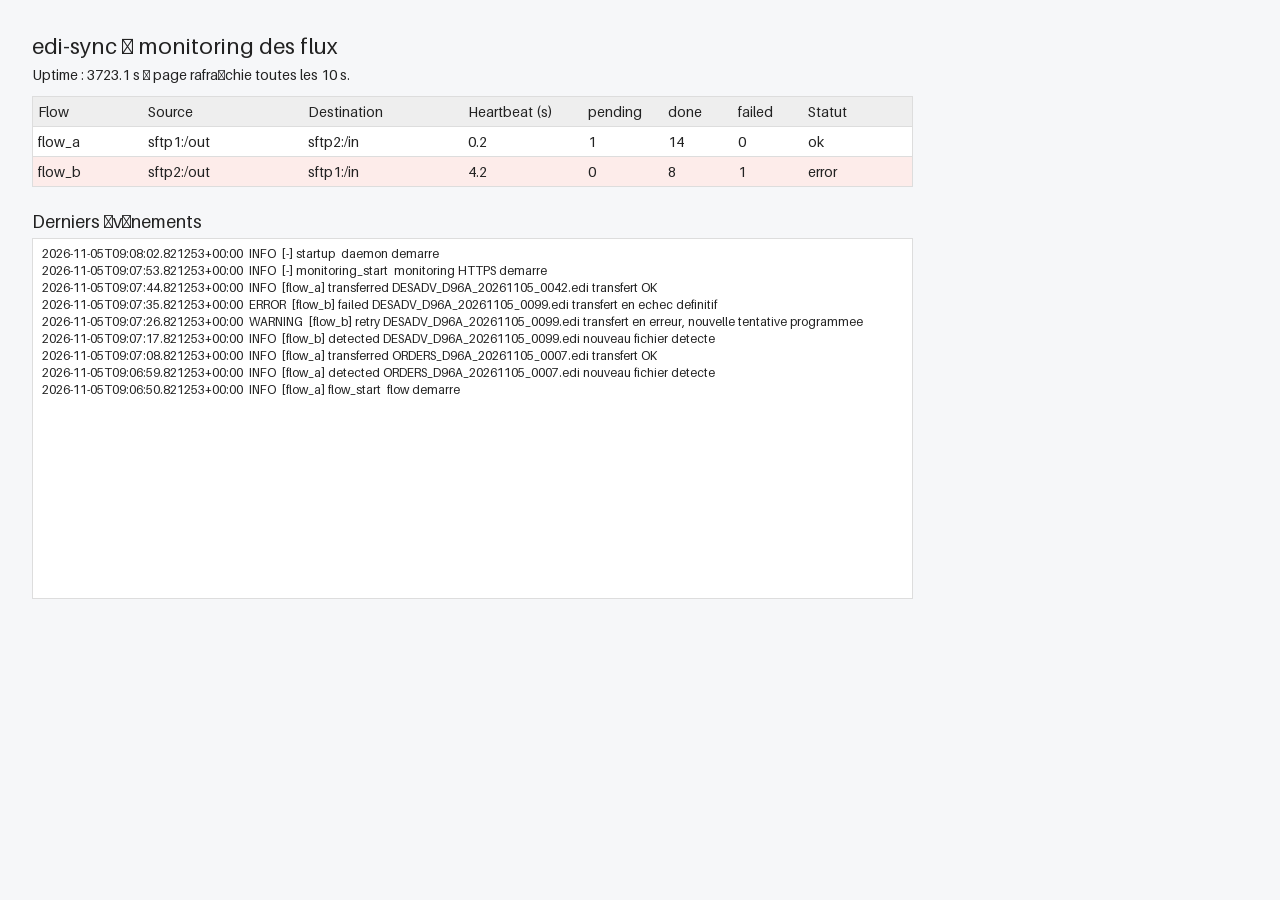
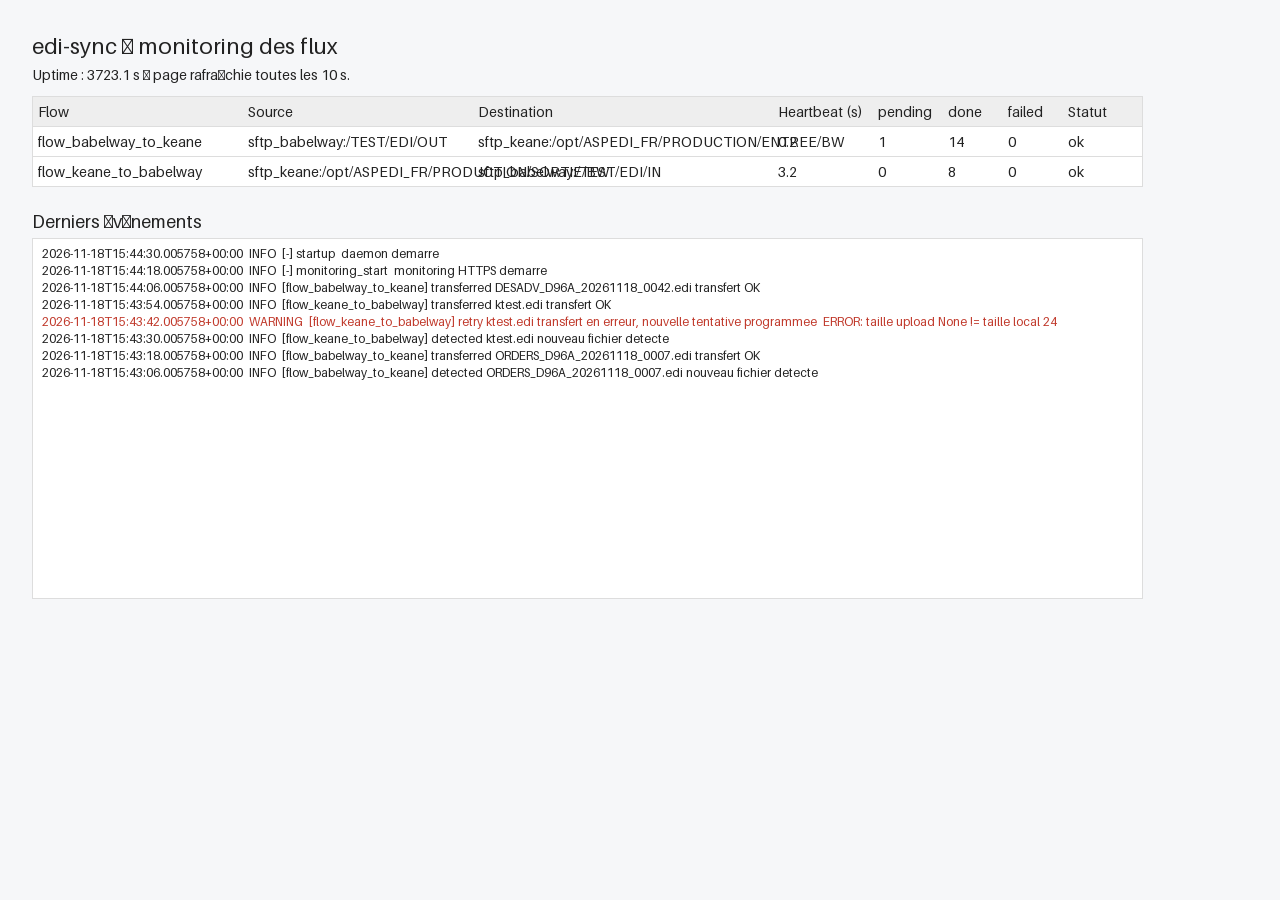
Doc a jour : vrais noms de flows (sftp_babelway/sftp_keane, flow_babelway_to_keane/flow_keane_to_babelway), scan racine seule, local_archive_dir + suppression source, log_file, reset failed au redemarrage, mode --user [PREFIX], capture monitoring regeneree

diff --git a/SRV_EDI_TRANSFERT_SFTP/README.md b/SRV_EDI_TRANSFERT_SFTP/README.md
@@ -1,38 +1,40 @@
 # SRV_EDI_TRANSFERT_SFTP
 
-Daemon Linux, lancé en tant que **service systemd**, qui transfère en **temps réel** des fichiers EDI d'un serveur SFTP à un autre, de manière **bidirectionnelle** :
+Daemon Linux, lancé en tant que **service systemd**, qui transfère en **temps réel** des fichiers EDI entre deux serveurs SFTP, de manière **bidirectionnelle** (exemple avec babelway/keane) :
 
-- `OUT` du SFTP 1 → `IN` du SFTP 2
-- `OUT` du SFTP 2 → `IN` du SFTP 1
+- `flow_babelway_to_keane` : `/TEST/EDI/OUT` (eu1.babelway.net) → `/opt/ASPEDI_FR/PRODUCTION/ENTREE/BW` (keane.cemoi.fr)
+- `flow_keane_to_babelway` : `/opt/ASPEDI_FR/PRODUCTION/SORTIE/BW` (keane.cemoi.fr) → `/TEST/EDI/IN` (eu1.babelway.net)
 
 ## Architecture
 
 ```
-┌─────────┐     flow A : OUT → IN      ┌─────────┐
-│ SFTP 1  │ ─────────────────────────► │ SFTP 2  │
-│  /out   │   sftp1/out ──► sftp2/in   │  /in    │
-│  /in    │ ◄───────────────────────── │  /out   │
-│ /archive│     flow B : OUT → IN      │ /archive│
-└─────────┘   sftp2/out ──► sftp1/in   └─────────┘
-            (daemon edi-sync au milieu)
+┌──────────────────┐  flow_babelway_to_keane   ┌──────────────────┐
+│  sftp_babelway   │ ─────────────────────────► │    sftp_keane    │
+│  /TEST/EDI/OUT   │  OUT ──► ENTREE/BW        │  .../ENTREE/BW   │
+│  /TEST/EDI/IN    │ ◄───────────────────────── │  .../SORTIE/BW   │
+└──────────────────┘  flow_keane_to_babelway   └──────────────────┘
+        (daemon edi-sync sur le serveur EDI, /opt/EDI/edi-sync)
 ```
 
-Le daemon tourne sur un serveur Linux intermédiaire et gère **deux flux indépendants**, chacun dans son propre thread :
+Le daemon tourne sur un serveur Linux intermédiaire et gère **un thread par flux** (connexions SFTP dédiées par flux) :
 
 | Composant | Rôle |
 |---|---|
-| Scanner (par flux) | Scanne le répertoire `OUT` distant toutes les N secondes, détecte les fichiers nouveaux et *stables* |
-| Queue persistante (SQLite) | Stocke chaque transfert avec son état (`pending`, `downloading`, `uploading`, `done`, `failed`), ses tentatives et ses timestamps |
-| Worker (par flux) | Télécharge vers un répertoire local `staging/`, vérifie la taille, upload vers `IN/.<nom>.tmp` puis **rename atomique** |
-| Superviseur | Reconnexion SFTP automatique, backoff exponentiel, reprise des transferts interrompus au démarrage |
-| Service systemd | `edi-sync.service` : `Restart=always`, utilisateur dédié, sandboxing |
+| Scanner (par flux) | Scanne la **racine** du répertoire source distant toutes les N secondes (pas de récursivité dans les sous-dossiers), détecte les fichiers nouveaux et *stables* |
+| Queue persistante (SQLite) | Stocke chaque transfert avec son état (`pending`, `done`, `failed`), ses tentatives et ses timestamps ; au démarrage, les `failed` sont remis en `pending` |
+| Worker (par flux) | Télécharge vers `staging/`, vérifie la taille source↔local, upload vers `IN/.<nom>.tmp` puis **rename atomique**, archive localement, supprime la source |
+| Purge | Supprime les archives locales de plus de `archive_retention_days` jours (toutes les heures) |
+| Monitoring | Mini serveur HTTPS (voir ci-dessous) |
+| Superviseur | Reconnexion SFTP automatique, keepalive 30 s, backoff exponentiel, arrêt propre sur SIGTERM/SIGINT |
+| Service systemd | `edi-sync.service` (system) ou `edi-sync-user.service` (`--user`) : `Restart=always` |
 
 ## Règles de transfert
 
-- **Anti-boucle** : seuls les répertoires `OUT` sont scannés ; un fichier livré dans `IN` n'est jamais relu.
+- **Anti-boucle** : seuls les répertoires sources (`source_dir`) sont scannés ; un fichier livré côté destination n'est jamais relu.
+- **Scan racine seule** : les sous-dossiers de `source_dir` (ex. `KA/`, `REV/`, `SOL/`, `COPIES/`) **ne sont pas parcourus**.
 - **Fichier stable** : taille inchangée entre 2 scans consécutifs ; les suffixes `.tmp`/`.part` et fichiers cachés sont ignorés.
 - **Anti-doublon** : clé unique `(flow, nom, taille, mtime)` dans la queue SQLite.
-- **Transfert atomique** côté destination : upload en `.<nom>.tmp` puis rename, jamais de fichier partiel visible.
+- **Transfert atomique** côté destination : upload en `.<nom>.tmp` puis rename, jamais de fichier partiel visible. Après le rename, si le fichier n'est plus visible au `stat` (la plateforme peut le déplacer immédiatement), c'est un warning, pas une erreur ; erreur seulement si la taille constatée diffère.
 - **Après succès** : le fichier est archivé **localement** dans `local_archive_dir/<flow>/` (ex. `/opt/EDI/ARCHIVE/flow_babelway_to_keane/`), puis **supprimé du SFTP source**, état `done`.
 - **Purge** : les archives locales sont supprimées automatiquement après N jours (`archive_retention_days`, 7 par défaut).
 - **Conflit de nom** côté `IN` : même nom + même taille = déjà livré (ignoré) ; taille différente = upload sous `<nom>.dup-<timestamp>`.
@@ -49,13 +51,15 @@ SRV_EDI_TRANSFERT_SFTP/
 ├── config/
 │   └── config.ini.example     # exemple de configuration
 ├── systemd/
-│   └── edi-sync.service       # unité systemd
+│   ├── edi-sync.service       # unité systemd (mode system, root)
+│   └── edi-sync-user.service  # unité systemd --user (mode sans root, template __APP_DIR__)
 ├── install/
-│   └── install.sh             # playbook d'installation sur le serveur cible
+│   └── install.sh             # playbook d'installation (modes system / --user [PREFIX])
 ├── tests/
 │   └── test_edi_sync.py       # tests unitaires (logique pure + serveur HTTP de monitoring, loopback)
 └── docs/
-    └── architecture.md        # décisions d'architecture détaillées
+    ├── architecture.md        # décisions d'architecture détaillées
+    └── monitoring-ui.png      # capture de la page de monitoring (données de démo)
 ```
 
 ## Tests
@@ -120,16 +124,16 @@ sudo systemctl enable --now edi-sync
 
 Crée l'utilisateur système `edisync`, déploie le code dans `/opt/edi-sync/`, la config dans `/etc/edi-sync/` (600, owner edisync) + `keys/` (700), l'état dans `/var/lib/edi-sync/` et l'unité systemd système.
 
-**Mode user (sans aucun droit root)** — le daemon tourne sous ton compte, tout dans `~/edi-sync` :
+**Mode user (sans aucun droit root)** — le daemon tourne sous ton compte. Préfixe par défaut `~/edi-sync`, personnalisable (ex. `/opt/EDI/edi-sync`) :
 
 ```bash
 git clone https://github.com/rcanovasCemoi/DEV_EDI.git ~/DEV_EDI
-bash ~/DEV_EDI/SRV_EDI_TRANSFERT_SFTP/install/install.sh --user
-# éditer ~/edi-sync/config.ini : key_file pointent directement vers ~/.ssh/id_rsa_* (pas de copie)
-~/edi-sync/venv/bin/python ~/edi-sync/edi_sync.py --config ~/edi-sync/config.ini --check
+bash ~/DEV_EDI/SRV_EDI_TRANSFERT_SFTP/install/install.sh --user /opt/EDI/edi-sync
+# éditer /opt/EDI/edi-sync/config.ini : key_file pointent directement vers ~/.ssh/id_rsa_* (pas de copie)
+/opt/EDI/edi-sync/venv/bin/python /opt/EDI/edi-sync/edi_sync.py --config /opt/EDI/edi-sync/config.ini --check
 systemctl --user enable --now edi-sync
 systemctl --user status edi-sync
-journalctl --user -u edi-sync -f
+journalctl --user -u edi-sync -f    # ou: tail -f /opt/EDI/edi-sync/log/daemon.log si log_file renseigné
 ```
 
 > Pour que le service user démarre aussi sans session ouverte, demander à l'admin root une seule fois : `loginctl enable-linger $USER` (sinon le service démarre à ta première connexion).
@@ -141,8 +145,9 @@ systemctl status edi-sync
 journalctl -u edi-sync -f
 ```
 
-- Heartbeat par flow : `/var/lib/edi-sync/heartbeat_flow_babelway_to_keane`, `heartbeat_flow_keane_to_babelway` (nommés d'après les sections `[flow_*]`)
-- Métriques `pending/done/failed` par flow dans la base SQLite
+- Heartbeat par flow : `<state_dir>/heartbeat_flow_babelway_to_keane`, `heartbeat_flow_keane_to_babelway` (nommés d'après les sections `[flow_*]`)
+- Métriques `pending/done/failed` par flow dans la base SQLite (`<state_dir>/queue.db`)
+- Logs JSON sur stdout (journald) ; option `[general] log_file = /chemin/daemon.log` pour aussi écrire dans un fichier (utile en mode user sans accès au journal). Les erreurs incluent un champ `traceback`
 - Alerte si heartbeat absent ou si des transferts sont en `failed`
 
 ## Monitoring (mini serveur HTTPS embarqué)
@@ -150,8 +155,8 @@ journalctl -u edi-sync -f
 Le daemon embarque un serveur HTTPS dans un thread dédié (même process, état partagé avec la queue) :
 
 - **Accès** : bind `127.0.0.1:8443` par défaut — ne jamais binder `0.0.0.0`. Accès distant via tunnel SSH : `ssh -L 8443:127.0.0.1:8443 utilisateur@serveur-edi`, puis ouvrir `https://localhost:8443/`
-- `GET /` : page HTML de suivi des flux (état `ok`/`stale`/`error`, heartbeat, compteurs `pending/done/failed`, 30 derniers événements, auto-refresh 10 s)
-- `GET /api/status` : mêmes données en JSON
+- `GET /` : page HTML de suivi des flux (état `ok`/`stale`/`error`, heartbeat, compteurs `pending/done/failed`, 30 derniers événements avec leur champ `error`, auto-refresh 10 s)
+- `GET /api/status` : mêmes données en JSON (événements avec `error`)
 - `GET /health` : sonde `200 ok`
 - Certificat **auto-signé** généré au premier démarrage dans `/var/lib/edi-sync/certs/` (ou cert/key fournis via `tls_cert` / `tls_key` dans `[monitoring]`)
 - **Basic Auth optionnelle** : `auth_user` + `auth_password_sha256` (sha256 du mot de passe, ex. `echo -n 'motdepasse' | sha256sum`)

diff --git a/SRV_EDI_TRANSFERT_SFTP/docs/architecture.md b/SRV_EDI_TRANSFERT_SFTP/docs/architecture.md
@@ -5,13 +5,12 @@
 Daemon Python unique (`src/edi_sync.py`), déployé comme service systemd `edi-sync`, qui fait la navette **bidirectionnelle** de fichiers EDI entre deux serveurs SFTP :
 
 ```
-┌─────────┐     flow_babelway_to_keane  ┌─────────┐
-│ SFTP 1  │ ─────────────────────────► │ SFTP 2  │
-│  /out   │   sftp1/out ──► sftp2/in   │  /in    │
-│  /in    │ ◄───────────────────────── │  /out   │
-│ /archive│     flow_keane_to_babelway  │ /archive│
-└─────────┘   sftp2/out ──► sftp1/in   └─────────┘
-            (daemon edi-sync au milieu)
+┌──────────────────┐  flow_babelway_to_keane   ┌──────────────────┐
+│  sftp_babelway   │ ─────────────────────────► │    sftp_keane    │
+│  /TEST/EDI/OUT   │  OUT ──► ENTREE/BW        │  .../ENTREE/BW   │
+│  /TEST/EDI/IN    │ ◄───────────────────────── │  .../SORTIE/BW   │
+└──────────────────┘  flow_keane_to_babelway   └──────────────────┘
+        (daemon edi-sync sur le serveur EDI)
 ```
 
 ## Threads du process
@@ -32,13 +31,14 @@ Daemon Python unique (`src/edi_sync.py`), déployé comme service systemd `edi-s
 
 ## Règles de transfert
 
-- **Anti-boucle** : seuls les répertoires `OUT` sont scannés ; un fichier livré dans `IN` n'est jamais relu.
+- **Anti-boucle** : seuls les répertoires sources sont scannés ; un fichier livré côté destination n'est jamais relu.
+- **Scan racine seule** : pas de récursivité dans les sous-dossiers de `source_dir`.
 - **Stabilité** : un fichier est traité quand sa taille est inchangée sur `stability_scans` scans consécutifs ; `.tmp`, `.part` et fichiers cachés ignorés.
 - **Anti-doublon** : contrainte `UNIQUE(flow, filename, size, src_mtime)` en SQLite.
-- **Atomicité** : upload côté destination en `.<nom>.tmp` puis `rename` ; vérification des tailles à chaque étape.
+- **Atomicité** : upload côté destination en `.<nom>.tmp` puis `rename`. Après le rename, si le fichier n'est plus visible au `stat` (plateforme qui le déplace immédiatement), warning non bloquant ; erreur seulement si taille constatée différente.
 - **Post-traitement** : après upload OK, le fichier est archivé **localement** dans `local_archive_dir/<flow>/` (ex. `/opt/EDI/ARCHIVE/flow_babelway_to_keane/`), puis **supprimé du SFTP source** ; purge automatique des archives locales après `archive_retention_days`.
 - **Conflit de nom** côté `IN` : même taille = déjà livré (on archive quand même localement et on supprime la source) ; taille différente = suffixe `.dup-<epoch>`.
-- **Retry** : backoff 30 s → 1 min → 5 min → 15 min → 1 h, puis `failed` après `max_retries` tentatives. Reprise automatique des `pending` au redémarrage.
+- **Retry** : backoff 30 s → 1 min → 5 min → 15 min → 1 h, puis `failed` après `max_retries` tentatives. Au redémarrage, `pending` repris et `failed` remis en `pending` (nouvel essai).
 
 ## Monitoring HTTPS
 
@@ -54,4 +54,4 @@ Daemon Python unique (`src/edi_sync.py`), déployé comme service systemd `edi-s
 - Clés SSH dédiées, `chmod 600`, pas de mot de passe ; empreintes `sha256` du serveur épinglées (liste séparée par virgules, une par clé d'hôte RSA/ECDSA/ED25519) et vérifiées à chaque connexion.
 - Config et clés dans `/etc/edi-sync/` : dossier `root:root 755`, mais `config.ini` (600) et `keys/` (700 + clés 600) appartiennent à `edisync`, l'utilisateur du service systemd, afin que le daemon puisse les lire sans les exposer aux autres comptes.
 - Service sandboxé : `NoNewPrivileges`, `ProtectSystem=strict`, `ProtectHome`, `PrivateTmp`, `ReadWritePaths=/var/lib/edi-sync /var/log/edi-sync`.
-- Logs JSON sur stdout → journald (`journalctl -u edi-sync -f`).
+- Logs JSON sur stdout → journald (`journalctl -u edi-sync -f`), avec champ `traceback` sur les erreurs ; option `[general] log_file` pour aussi écrire dans un fichier.
